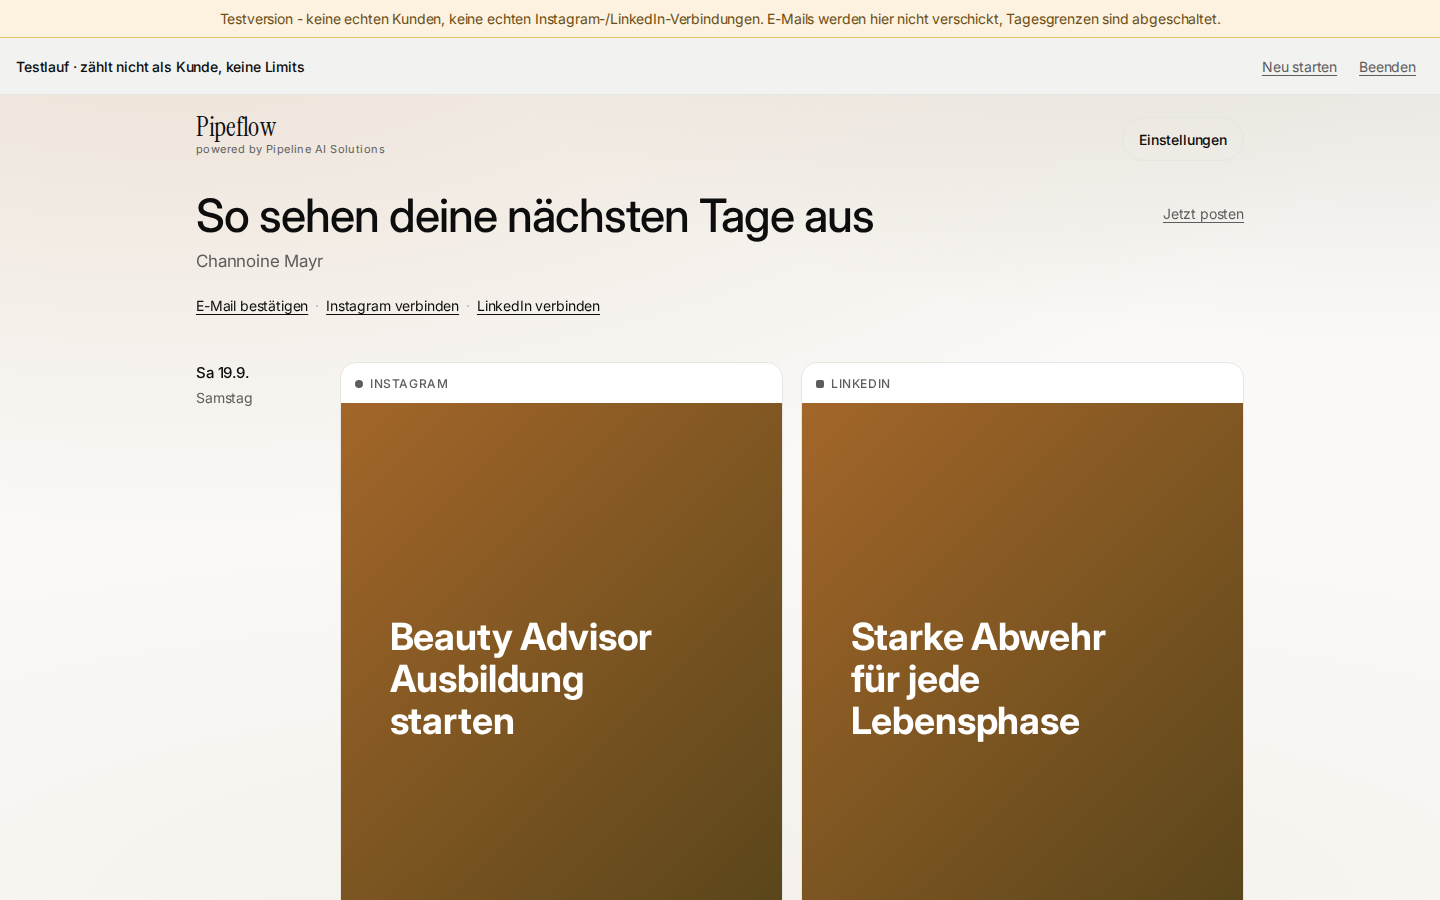
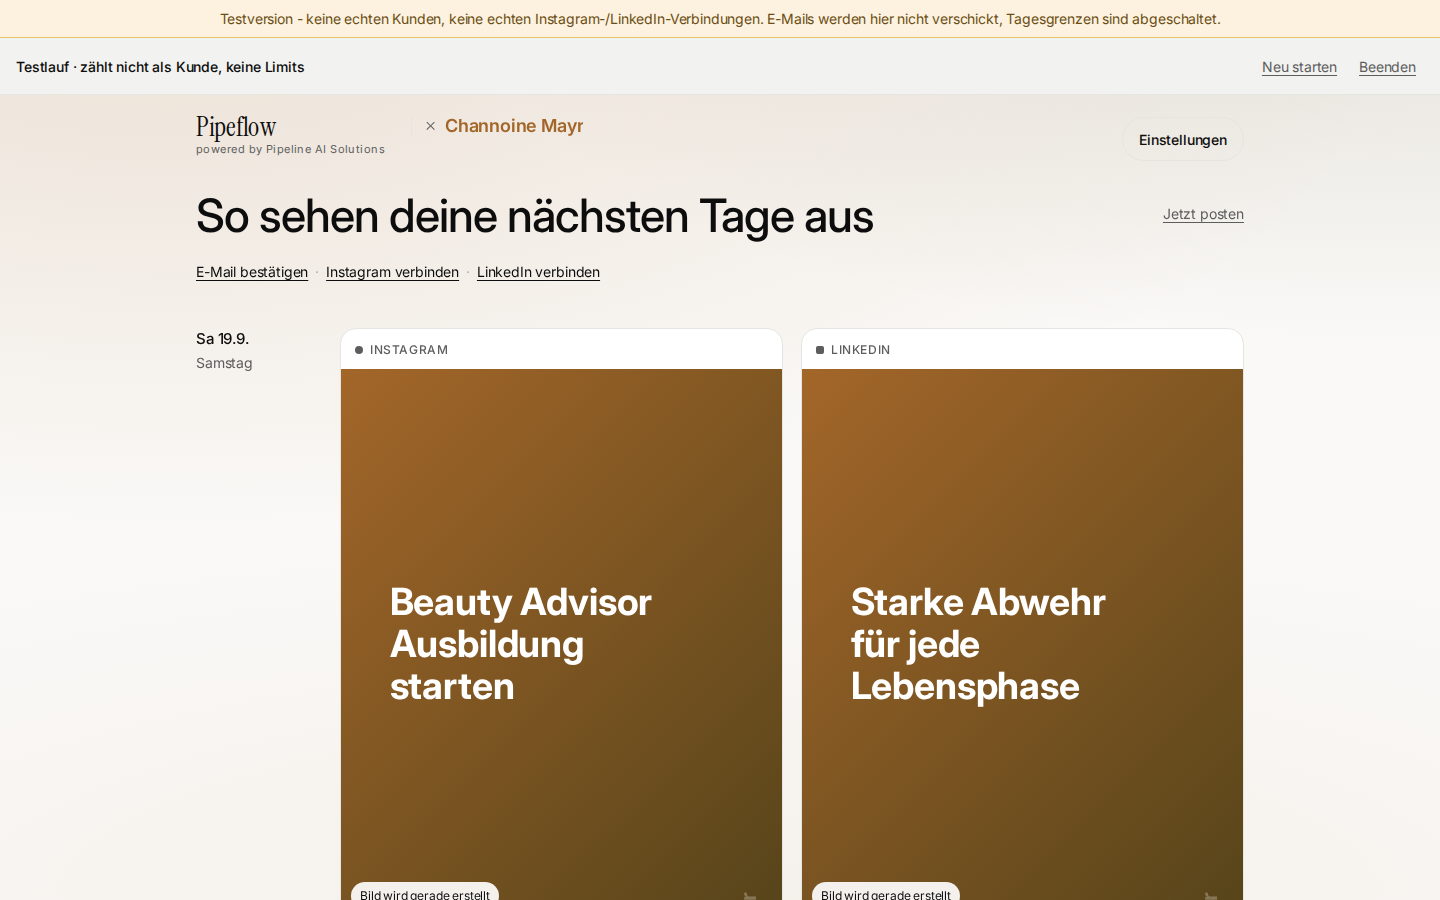
Tokenfehler sperren und melden; Kopfzeile "Pipeflow ✕ Firma"
Tokenfehler. Die Sperr-Logik gab es schon (connection-block.ts), sie kannte nur
den entwerteten Token nicht - deshalb stand @pipeflow_solution zwei Tage als
"ok" in der Datenbank, waehrend 102 Fehlerzeilen am Tag ins Log liefen. Jetzt
erkennt detectPlatformBlock die aufbereitete Meldung aus errors.ts und die
rohen Meta-Texte als IG_TOKEN_INVALID. Eine NEUE Sperre schickt genau einmal
zwei Mails: an PANEL_ALERT_EMAIL und an den Kunden, weil nur der neu verbinden
kann. Der bestehende Einmal-Guard (nur schreiben, wenn der Code neu ist)
verhindert Wiederholungen. scripts/test-sperren.mjs, 4/4.

Kopfzeile. Statt des Firmennamens unter der Ueberschrift steht jetzt
"Pipeflow ✕ Logo" bzw. "Pipeflow ✕ Firmenname" in der Markenfarbe, sobald die
Firmendaten da sind (vorher waere es der aus der E-Mail geratene Name). Laedt
das Logo nicht, faellt es auf den Namen zurueck - nie eine Luecke. Lange Namen
werden mit Auslassung gekappt. Gemessen bei 360 und 1440: Kopfzeile bleibt 70 px
hoch, nichts laeuft aus dem Fenster. scripts/test-kopfzeile.mjs, 14/14.

diff --git a/src/panel/connection-block.ts b/src/panel/connection-block.ts
@@ -12,6 +12,48 @@
  */
 import { db, nowIso, type ConnectionRow } from "./db.js";
 import { ConnectionBlockedError, detectPlatformBlock, type PlatformBlock } from "./platform-blocks.js";
+import { sendMailBestEffort } from "./mailer.js";
+
+/** Derselbe Empfaenger wie bei der Stillstands-Wache, mit derselben Variable umstellbar. */
+function alarmEmpfaenger(): string | undefined {
+  return process.env.PANEL_ALERT_EMAIL ?? "office@pipebot.at";
+}
+
+/**
+ * Meldet eine NEUE Sperre per Mail (19.09.2026) - an den Betreiber, und an den Kunden, weil nur
+ * der sie beheben kann. Genau einmal je Sperre: markConnectionBlocked schreibt nur, wenn der
+ * Code neu ist, und nur dann kommt dieser Aufruf. Ein Fehler beim Mailen bricht nichts ab
+ * (sendMailBestEffort), die Sperre selbst ist da schon vermerkt.
+ */
+function sperreMelden(customerId: string, provider: string, block: PlatformBlock): void {
+  const kunde = db.prepare("SELECT company, email FROM customers WHERE id = ?").get(customerId) as { company: string; email: string } | undefined;
+  const name = kunde?.company ?? customerId;
+  const kanal = provider === "instagram" ? "Instagram" : provider === "linkedin" ? "LinkedIn" : provider;
+  const panel = (process.env.PANEL_BASE_URL ?? "").replace(/\/$/, "");
+  const an = alarmEmpfaenger();
+  if (an) {
+    sendMailBestEffort({
+      to: an,
+      subject: `[Pipeflow] ${kanal}-Verbindung gesperrt: ${name}`,
+      text:
+        `Die ${kanal}-Verbindung von ${name} (${kunde?.email ?? "-"}) wurde als gesperrt vermerkt.\n\n` +
+        `Grund (${block.code}): ${block.reason}\n\n` +
+        `Kunden-id: ${customerId}\n` +
+        `Bis zum Neu-Verbinden wird auf diesem Kanal nichts mehr veroeffentlicht. Diese Meldung kommt einmal je Sperre.`,
+    });
+  }
+  if (kunde?.email) {
+    sendMailBestEffort({
+      to: kunde.email,
+      subject: `${kanal} ist nicht mehr verbunden - Pipeflow`,
+      text:
+        `Hallo,\n\n${block.reason}\n\n` +
+        `Solange die Verbindung fehlt, veroeffentlicht Pipeflow auf ${kanal} nichts; deine geplanten Beitraege bleiben erhalten.\n\n` +
+        (panel ? `Neu verbinden: ${panel}/panel/\n\n` : "") +
+        `Pipeflow`,
+    });
+  }
+}
 
 // Weiterreichen, damit Aufrufer nur ein Modul kennen muessen.
 export { ConnectionBlockedError, detectPlatformBlock, type PlatformBlock };
@@ -37,7 +79,9 @@ export function markConnectionBlocked(customerId: string, provider: string, bloc
   const result = db
     .prepare("UPDATE connections SET blocked_at = ?, blocked_code = ?, blocked_reason = ?, updated_at = ? WHERE customer_id = ? AND provider = ?")
     .run(nowIso(), block.code, block.reason, nowIso(), customerId, provider);
-  return result.changes > 0;
+  const neu = result.changes > 0;
+  if (neu) sperreMelden(customerId, provider, block);
+  return neu;
 }
 
 /** Hebt die Sperre auf - beim Neu-Verbinden und nach jedem erfolgreichen Aufruf. */

diff --git a/public/panel/start/start.js b/public/panel/start/start.js
@@ -296,19 +296,34 @@
   function markeKunde() {
     const huelle = $("#marke-kunde");
     if (!huelle) return;
-    const zeigen = Boolean(S.customer?.brandLogo);
-    huelle.hidden = !zeigen;
-    huelle.classList.toggle("kachel-logo", Boolean(S.customer?.brandLogoTile));
-    if (!zeigen) return;
+    const c = S.customer;
+    // Erst wenn die Firmendaten da sind - vorher steht als Firma nur der aus der E-Mail
+    // geratene Name, und "Pipeflow ✕ paul" waere kein Markenauftritt.
+    const bekannt = Boolean(c && (c.brandLogo || c.industry || c.website));
+    huelle.hidden = !bekannt;
+    if (!bekannt) return;
     const bild = $("#marke-kunde-bild");
+    const name = $("#marke-kunde-name");
+    huelle.classList.toggle("kachel-logo", Boolean(c.brandLogoTile));
+    const alsText = () => {
+      bild.hidden = true;
+      name.hidden = false;
+      name.textContent = c.company || "";
+      name.title = c.company || "";
+      // Markenfarbe: sie ist schon auf 4,5:1 gegen Weiss gerechnet, also dunkel genug als
+      // Schrift auf dem Papiergrund. Ohne erkannte Farbe bleibt es die Textfarbe.
+      name.style.color = c.gradientEnabled && c.accentColor ? c.accentColor : "";
+    };
+    if (!c.brandLogo) { alsText(); return; }
+    name.hidden = true;
+    bild.hidden = false;
     const quelle = `${MOUNT}/api/brand-logo`;
     if (bild.getAttribute("src") !== quelle) {
       bild.removeAttribute("width");
       bild.removeAttribute("height");
-      bild.alt = S.customer.company ? `Logo von ${S.customer.company}` : "Logo";
-      // Laesst sich das Bild nicht laden, verschwindet die Huelle wieder - lieber nichts als
-      // ein kaputtes Bildsymbol neben dem Produktnamen.
-      bild.onerror = () => { huelle.hidden = true; };
+      bild.alt = c.company ? `Logo von ${c.company}` : "Logo";
+      // Laedt das Logo nicht, steht der Name da - nie ein kaputtes Bildsymbol, nie eine Luecke.
+      bild.onerror = alsText;
       bild.src = quelle;
     }
   }
@@ -970,7 +985,7 @@
     return `
       <section>
         <div class="dash-kopf">
-          <div><h1>So sehen deine nächsten Tage aus</h1><p class="lede" style="margin-top:8px">${esc(c.company)}</p></div>
+          <div><h1>So sehen deine nächsten Tage aus</h1></div>
           <!-- Textlink, kein gefuellter Knopf: die Hauptsache dieses Bildschirms sind die
                Beitraege darunter, nicht ein zusaetzlicher Beitrag (Entwurf B1). -->
           <button type="button" class="kopf-link" id="btn-jetzt-posten">Jetzt posten</button>

diff --git a/public/panel/start/start.css b/public/panel/start/start.css
@@ -498,7 +498,7 @@ body.blatt-offen #plan-vorschau .kachel-wm { font-size: 7px; }
    dass die Oberflaeche zum Kunden gehoert, nicht das Logo. Eine feine senkrechte Linie
    trennt es vom Produktnamen, damit es nicht wie Teil von "Pipeflow" wirkt. */
 .marke-kunde {
-  display: flex; align-items: center; min-width: 0;
+  display: flex; align-items: center; min-width: 0; gap: 10px;
   /* margin-right:auto haelt das Logo am Produktnamen - .top verteilt sonst mit
      space-between und schoebe es in die Bildschirmmitte. */
   margin: 2px auto 0 14px; padding-left: 14px; border-left: 1px solid var(--linie);
@@ -509,12 +509,22 @@ body.blatt-offen #plan-vorschau .kachel-wm { font-size: 7px; }
    Schriftmarke von Channoine, die bei 26 px nur noch ein Fleck war. Der Pipeflow-Schriftzug
    daneben ist 27 px, damit steht beides gleichwertig ohne dass das Kundenlogo lauter wird. */
 .marke-kunde img { display: block; height: 32px; width: auto; max-width: 168px; object-fit: contain; }
+.marke-kunde img[hidden], .marke-kunde-name[hidden] { display: none; }
+/* Das ✕ ist Verbindung, nicht Gewicht: klein und grau. */
+.marke-x { font-size: 12px; color: var(--text-2); line-height: 1; }
+/* Der Name als Text: gleich hoch wie der Pipeflow-Schriftzug wirkt, aber in Grotesk und in der
+   Markenfarbe. Lange Namen werden mit Auslassung gekappt, bevor sie die Kopfzeile sprengen. */
+.marke-kunde-name {
+  font-size: 18px; font-weight: 600; letter-spacing: -.01em; line-height: 1.2;
+  max-width: 200px; overflow: hidden; text-overflow: ellipsis; white-space: nowrap;
+}
 /* App-Kachel mit eigenem Hintergrund: runde Ecken, sonst klebt ein Quadrat auf dem Papier. */
 .marke-kunde.kachel-logo img { border-radius: 7px; height: 28px; max-width: 28px; }
 @keyframes logo-auf { from { opacity: 0; transform: translateY(-3px); } to { opacity: 1; transform: none; } }
 @media (max-width: 420px) {
-  .marke-kunde { margin-left: 10px; padding-left: 10px; }
+  .marke-kunde { margin-left: 10px; padding-left: 10px; gap: 8px; }
   .marke-kunde img { height: 26px; max-width: 104px; }
+  .marke-kunde-name { font-size: 15px; max-width: 108px; }
 }
 
 /* ---- Ladebildschirm: echte Zwischenergebnisse statt Schrittliste ------------------------

diff --git a/src/panel/platform-blocks.ts b/src/panel/platform-blocks.ts
@@ -53,11 +53,33 @@ const IG_RESTRICTED_ACTIVITY: PlatformBlock = {
  * (axios-Fehler, ToolError, aufbereiteter Graph-Text aus errors.ts), und alle Wege enthalten am
  * Ende dieselben eindeutigen Kennungen. Reine Funktion - ohne Datenbank, damit testbar.
  */
+/**
+ * 19.09.2026: ein entwerteter Token ist ebenfalls ein Zustand, der sich nie von selbst aendert.
+ * Bei @pipeflow_solution blieb er zwei Tage lang unbemerkt, weil nur das Log ihn sah: die
+ * Verbindung stand weiter als "ok" in der Datenbank, keine Warnung ging raus, und die Routine
+ * versuchte es stuendlich neu (102 Fehlerzeilen an einem Tag). Ein Ausfall, den nur das Log
+ * sieht, ist kein erkannter Ausfall.
+ *
+ * Erkannt wird am aufbereiteten Text aus errors.ts (isAuthFailure), der an jeder Stelle gleich
+ * beginnt, sowie an den Rohmeldungen von Meta, falls ein Fehler einmal unaufbereitet ankommt.
+ */
+const IG_TOKEN_INVALID: PlatformBlock = {
+  code: "IG_TOKEN_INVALID",
+  reason:
+    "Die Verbindung zu Instagram ist ungültig geworden - meist nach einer Passwortänderung oder " +
+    "einer Sicherheitsabmeldung bei Instagram. Bitte im Panel einmal neu verbinden, danach geht es weiter.",
+};
+
 export function detectPlatformBlock(error: unknown): PlatformBlock | null {
   const text = error instanceof Error ? error.message : String(error ?? "");
   if (!text) return null;
 
   if (text.includes("RESTRICTED_MEMBER") || text.includes("65608")) return RESTRICTED_MEMBER;
   if (text.includes("subcode=2207051") || text.includes("We restrict certain activity")) return IG_RESTRICTED_ACTIVITY;
+  if (
+    text.includes("Instagram-Authentifizierung fehlgeschlagen") ||
+    text.includes("session has been invalidated") ||
+    text.includes("Error validating access token")
+  ) return IG_TOKEN_INVALID;
   return null;
 }

diff --git a/public/panel/start/index.html b/public/panel/start/index.html
@@ -82,7 +82,13 @@
   <!-- Markenlogo des Kunden, sobald die Website gelesen ist. Steht rechts neben dem
        Pipeflow-Schriftzug, durch eine feine Linie getrennt, und bleibt leer, wenn keines
        erkannt wurde (Auftrag 19.09.2026). -->
-  <span class="marke-kunde" id="marke-kunde" hidden><img id="marke-kunde-bild" alt="" width="0" height="0"></span>
+  <!-- "Pipeflow ✕ Firma" (19.09.2026): das Logo, wenn eines gefunden wurde, sonst der Firmenname
+       als Text in der Markenfarbe - an derselben Stelle. Die Kopfzeile wirkt nie leer. -->
+  <span class="marke-kunde" id="marke-kunde" hidden>
+    <span class="marke-x" aria-hidden="true">✕</span>
+    <img id="marke-kunde-bild" alt="" width="0" height="0" hidden>
+    <span class="marke-kunde-name" id="marke-kunde-name" hidden></span>
+  </span>
   <nav class="top-actions" id="top-actions" aria-label="Konto"></nav>
 </header>
 
